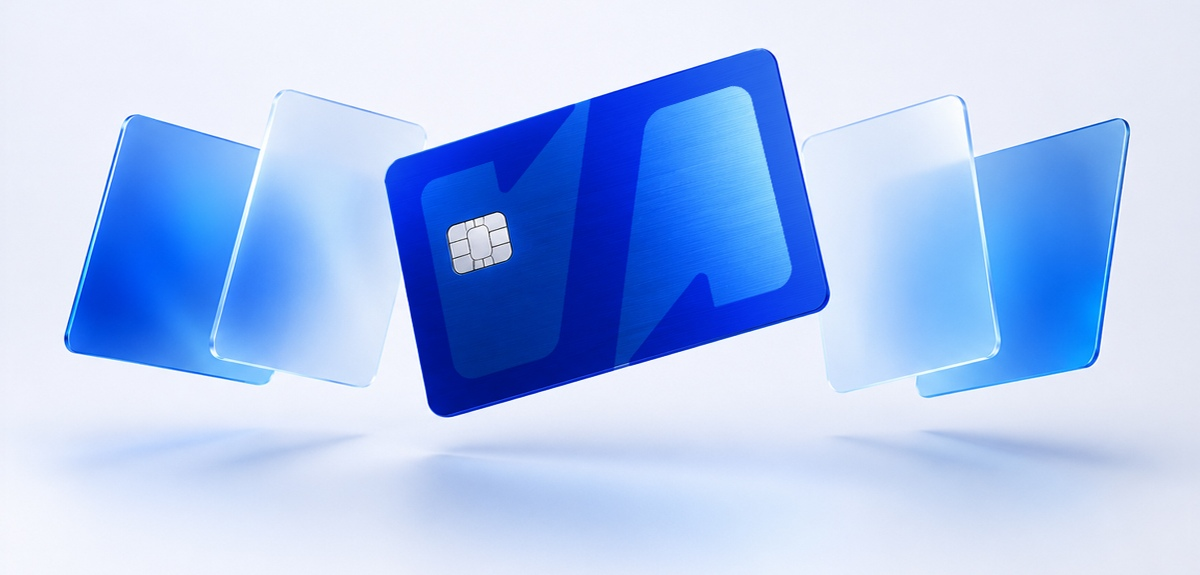
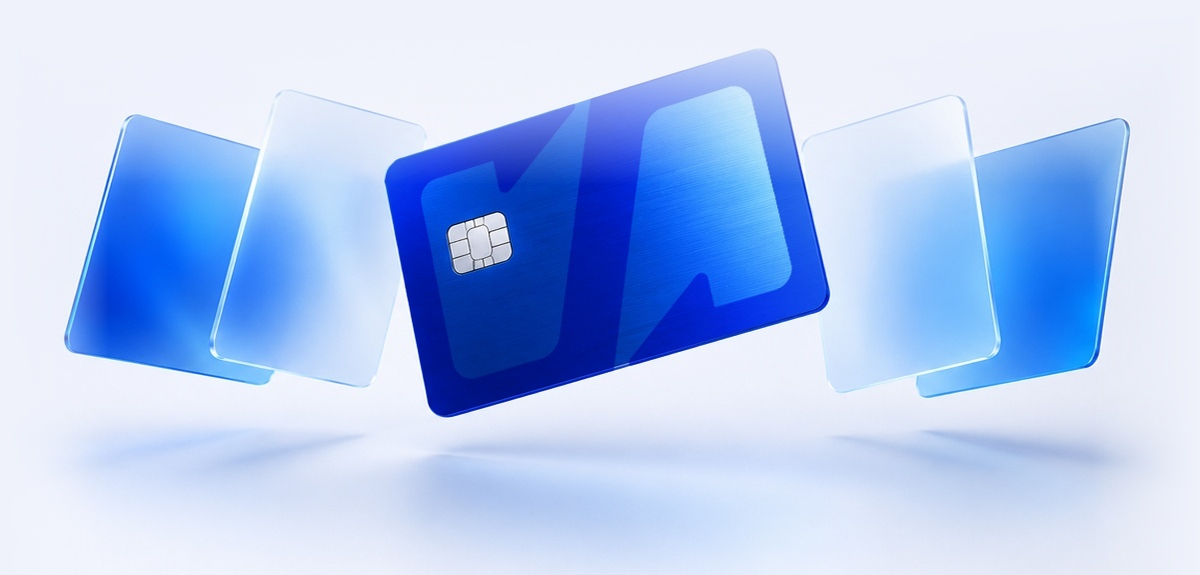
모바일 이미지 가장자리 페이드 · 간격 · 크기 조정

diff --git a/index.html b/index.html
@@ -45,9 +45,9 @@
 
   /* 모바일 — 이미지 크게 · 가운데 정렬 */
   @media(max-width:767px){
-    .hero{background-color:#EFF2FB; background-image:url('img/hero-bg10-m.jpg?v=6');
+    .hero{background-color:#EFF2FB; background-image:url('img/hero-bg10-m.jpg?v=7');
       background-size:100% auto; background-position:center calc(100% - 104px);
-      padding:88px 0 calc(48vw + 104px);}
+      padding:88px 0 calc(60vw + 104px);}
     .hero .hero2{text-align:center;}
     .hero .hleft{display:block;}
     .hero .hero2 .hbtns{justify-content:center; margin-top:22px; flex-wrap:nowrap;}
@@ -371,10 +371,10 @@
   #endcta .wrap{position:relative; z-index:1;}
   /* 모바일 — 글은 위로 · 이미지는 아래 전용 구역으로 분리 */
   @media(max-width:767px){
-    #endcta{min-height:0; padding-top:72px; padding-bottom:48vw;
+    #endcta{min-height:0; padding-top:72px; padding-bottom:calc(55vw + 44px);
       background-color:#F9F8FC;
-      background-image:url('img/cta-bg-m.jpg?v=2');
-      background-size:100% auto; background-position:center bottom;}
+      background-image:url('img/cta-bg-m.jpg?v=3');
+      background-size:126% auto; background-position:center bottom;}
     #endcta:before{background:linear-gradient(180deg, #F7F8FA 0%, rgba(249,248,252,0) 100%);}
   }
   #endcta .eyebrow{color:var(--primary-600);}
